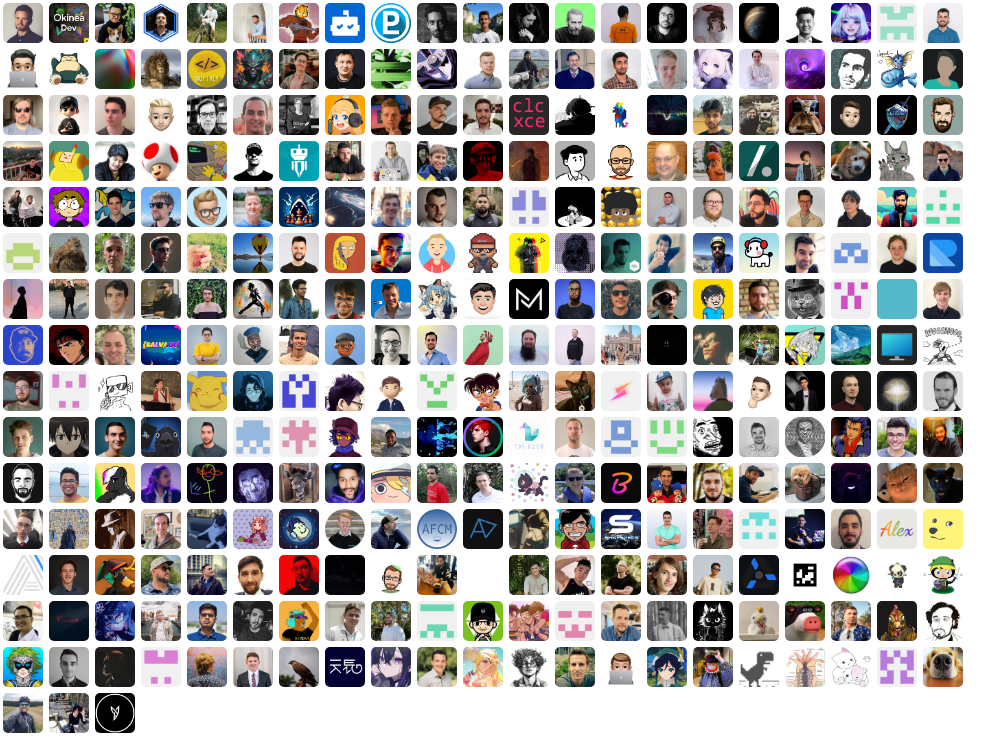
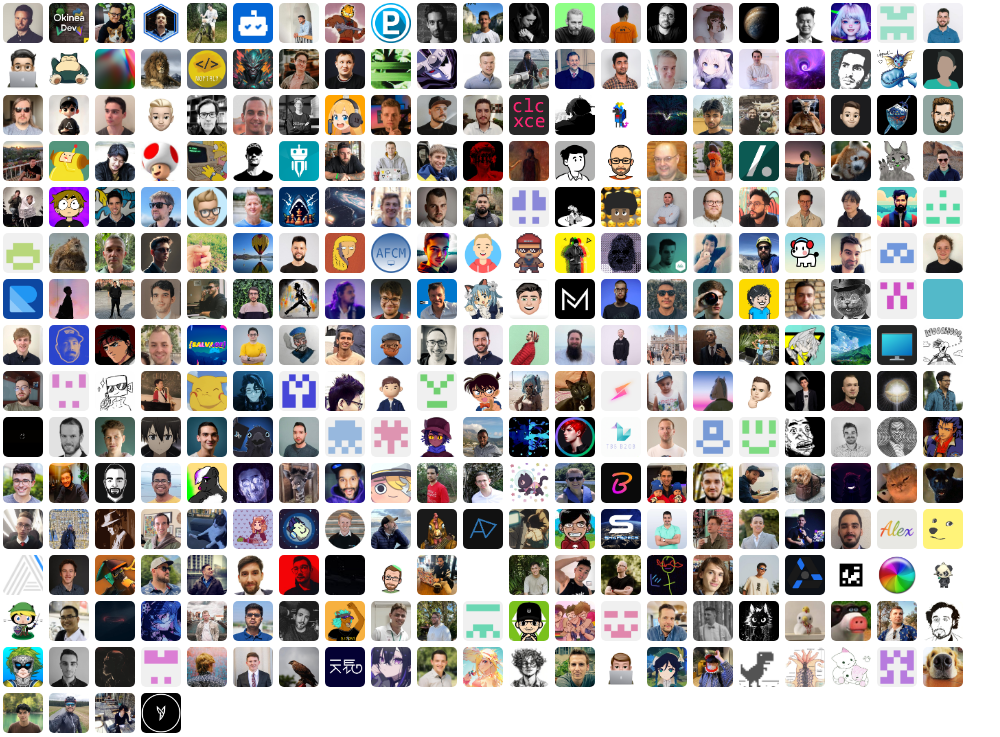
Release 5.10.0

diff --git a/CHANGELOG.md b/CHANGELOG.md
@@ -3,6 +3,27 @@
  All notable changes to this project will be documented in this file. Dates are displayed in UTC.
 
  
+#### [v5.10.0](https://github.com/material-extensions/vscode-material-icon-theme/compare/v5.9.0...v5.10.0) 
+
+> August 29, 2024 
+
+- feat: ✨ github actions workflow file icon [`#2559`](https://github.com/material-extensions/vscode-material-icon-theme/pull/2559)
+- duc Binary file format [`#2212`](https://github.com/material-extensions/vscode-material-icon-theme/pull/2212)
+- Add icon association for UNLICENSE files [`#2556`](https://github.com/material-extensions/vscode-material-icon-theme/pull/2556)
+- build(deps): bump actions/attest-build-provenance [`#2554`](https://github.com/material-extensions/vscode-material-icon-theme/pull/2554)
+- Update marketplace message capitalization [`#2553`](https://github.com/material-extensions/vscode-material-icon-theme/pull/2553)
+- Added coderabbit icon [`#2549`](https://github.com/material-extensions/vscode-material-icon-theme/pull/2549)
+- chore: Improve branch protection [`7112da93`](https://github.com/material-extensions/vscode-material-icon-theme/commit/7112da93)
+- Added `gemini-ai` icon [`#2548`](https://github.com/material-extensions/vscode-material-icon-theme/pull/2548)
+- feat: ✨ gitea folder icon [`#2552`](https://github.com/material-extensions/vscode-material-icon-theme/pull/2552)
+- Changed issue templates order [`#2546`](https://github.com/material-extensions/vscode-material-icon-theme/pull/2546)
+- Add remote(s) folder icon association [`4a3c324f`](https://github.com/material-extensions/vscode-material-icon-theme/commit/4a3c324f)
+- Added emojis in issue template names [`#2532`](https://github.com/material-extensions/vscode-material-icon-theme/pull/2532)
+- Collapse the walkthrough of coderabbit [`c61a8d1e`](https://github.com/material-extensions/vscode-material-icon-theme/commit/c61a8d1e)
+- Fixed pr template links [`#2531`](https://github.com/material-extensions/vscode-material-icon-theme/pull/2531)
+- Add config for coderabbit [`baf6202f`](https://github.com/material-extensions/vscode-material-icon-theme/commit/baf6202f)
+- Remove unused dependencies [`b167604c`](https://github.com/material-extensions/vscode-material-icon-theme/commit/b167604c)
+ 
 #### [v5.9.0](https://github.com/material-extensions/vscode-material-icon-theme/compare/v5.8.0...v5.9.0) 
 
 > August 10, 2024 
